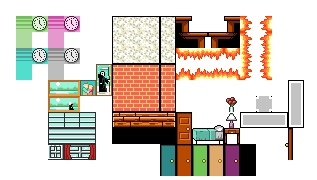
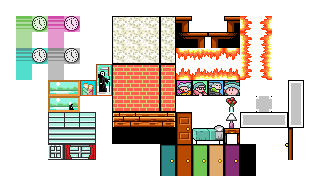
Added grandma placeholders to tilesheet

Changed region(s): [[0.5394, 0.4444, 0.7666, 0.5556]]

diff --git a/src/scenes/NursingHome.js b/src/scenes/NursingHome.js
@@ -52,11 +52,7 @@ export default class NursingHome extends Phaser.Scene {
 
     const breakableWalls = map.createStaticLayer('Breakable-walls', environment, xPadding, yPadding)
     const doors = map.createStaticLayer('Doors', environment, xPadding, yPadding)
-    this.grandmas = this.physics.add.group({ allowGravity: true, immovable: false })
-    this.grandmas.add(new WalkerGrandma(this, 125, 0), true)
-    this.grandmas.add(new WheelchairGrandma(this, 200, 0), true)
-    this.grandmas.add(new FatGrandma(this, 250, 0), true)
-    this.grandmas.add(new OxygenGrandma(this, 50, 0), true)
+    this.addGrandmas(map)
 
     // Player
     this.player = new Player(this, 50, 20)
@@ -147,6 +143,15 @@ export default class NursingHome extends Phaser.Scene {
         return group.indexOf(frame.frame) > -1
       })
     }
+  }
+
+  addGrandmas (map) {
+    this.grandmas = this.physics.add.group({ allowGravity: true, immovable: false })
+    const layer = map.getLayer('Grandmas')
+    this.grandmas.add(new WalkerGrandma(this, 125, 0), true)
+    this.grandmas.add(new WheelchairGrandma(this, 200, 0), true)
+    this.grandmas.add(new FatGrandma(this, 250, 0), true)
+    this.grandmas.add(new OxygenGrandma(this, 50, 0), true)
   }
 
   setupInput () {

diff --git a/src/characters/WheelchairGrandma.js b/src/characters/WheelchairGrandma.js
@@ -4,6 +4,10 @@ export const WheelieAnimKeys = {
   moving: 'wheelie-moving',
   sitting: 'wheelie-sitting'
 }
+export const WheelchairStates = {
+  sitting: 0,
+  moving: 1
+}
 export default class WheelchairGrandma extends BaseGrandma {
 
   constructor (scene, x, y) {
@@ -19,16 +23,35 @@ export default class WheelchairGrandma extends BaseGrandma {
       frameRate: 20,
       repeat: -1
     })
-    this.play(WheelieAnimKeys.sitting)
+    this.speed = 300
     this.setSize(16, 24)
+    this.setState(WheelchairStates.sitting)
   }
 
-  setBrake (val) {
-    this.setImmovable(val)
+  setState (state) {
+    this.state = state
+    switch (state) {
+      case WheelchairStates.moving:
+        return this.play(WheelieAnimKeys.moving, true)
+      default:
+        return this.play(WheelieAnimKeys.sitting, true)
+    }
   }
 
-  preUpdate (time, delta) {
-    super.preUpdate(time, delta)
+  interact () {
+    if (this.state === WheelchairStates.moving) {
+      this.setVelocity(0, 0)
+    } else {
+      if (this.flipX) {
+        this.setVelocityX(-this.speed)
+      } else {
+        this.setVelocityX(this.speed)
+      }
+    }
   }
+
+  // preUpdate (time, delta) {
+  //   super.preUpdate(time, delta)
+  // }
 
 }
